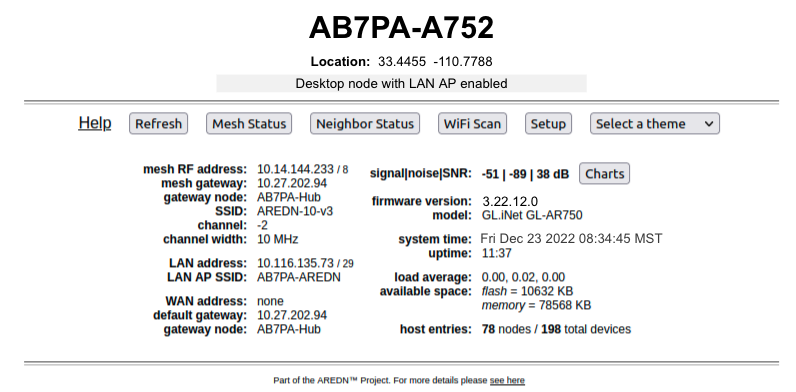
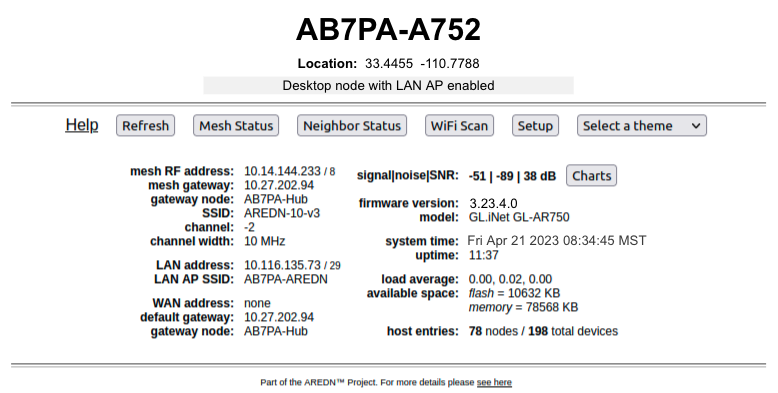
prepare for 3.23.4.0 release

diff --git a/conf.py b/conf.py
@@ -25,9 +25,9 @@ copyright = f'{date.today().year}, Amateur Radio Emergency Data Network, Inc. Li
 author = u'Amateur Radio Emergency Data Network, Inc.'
 
 # The short X.Y version
-version = u'latest'
+version = u'3.23.4.0'
 # The full version, including alpha/beta/rc tags
-release = u'Latest Nightly Build'
+release = u'3.23.4.0'
 
 # -- General configuration ---------------------------------------------------
 
